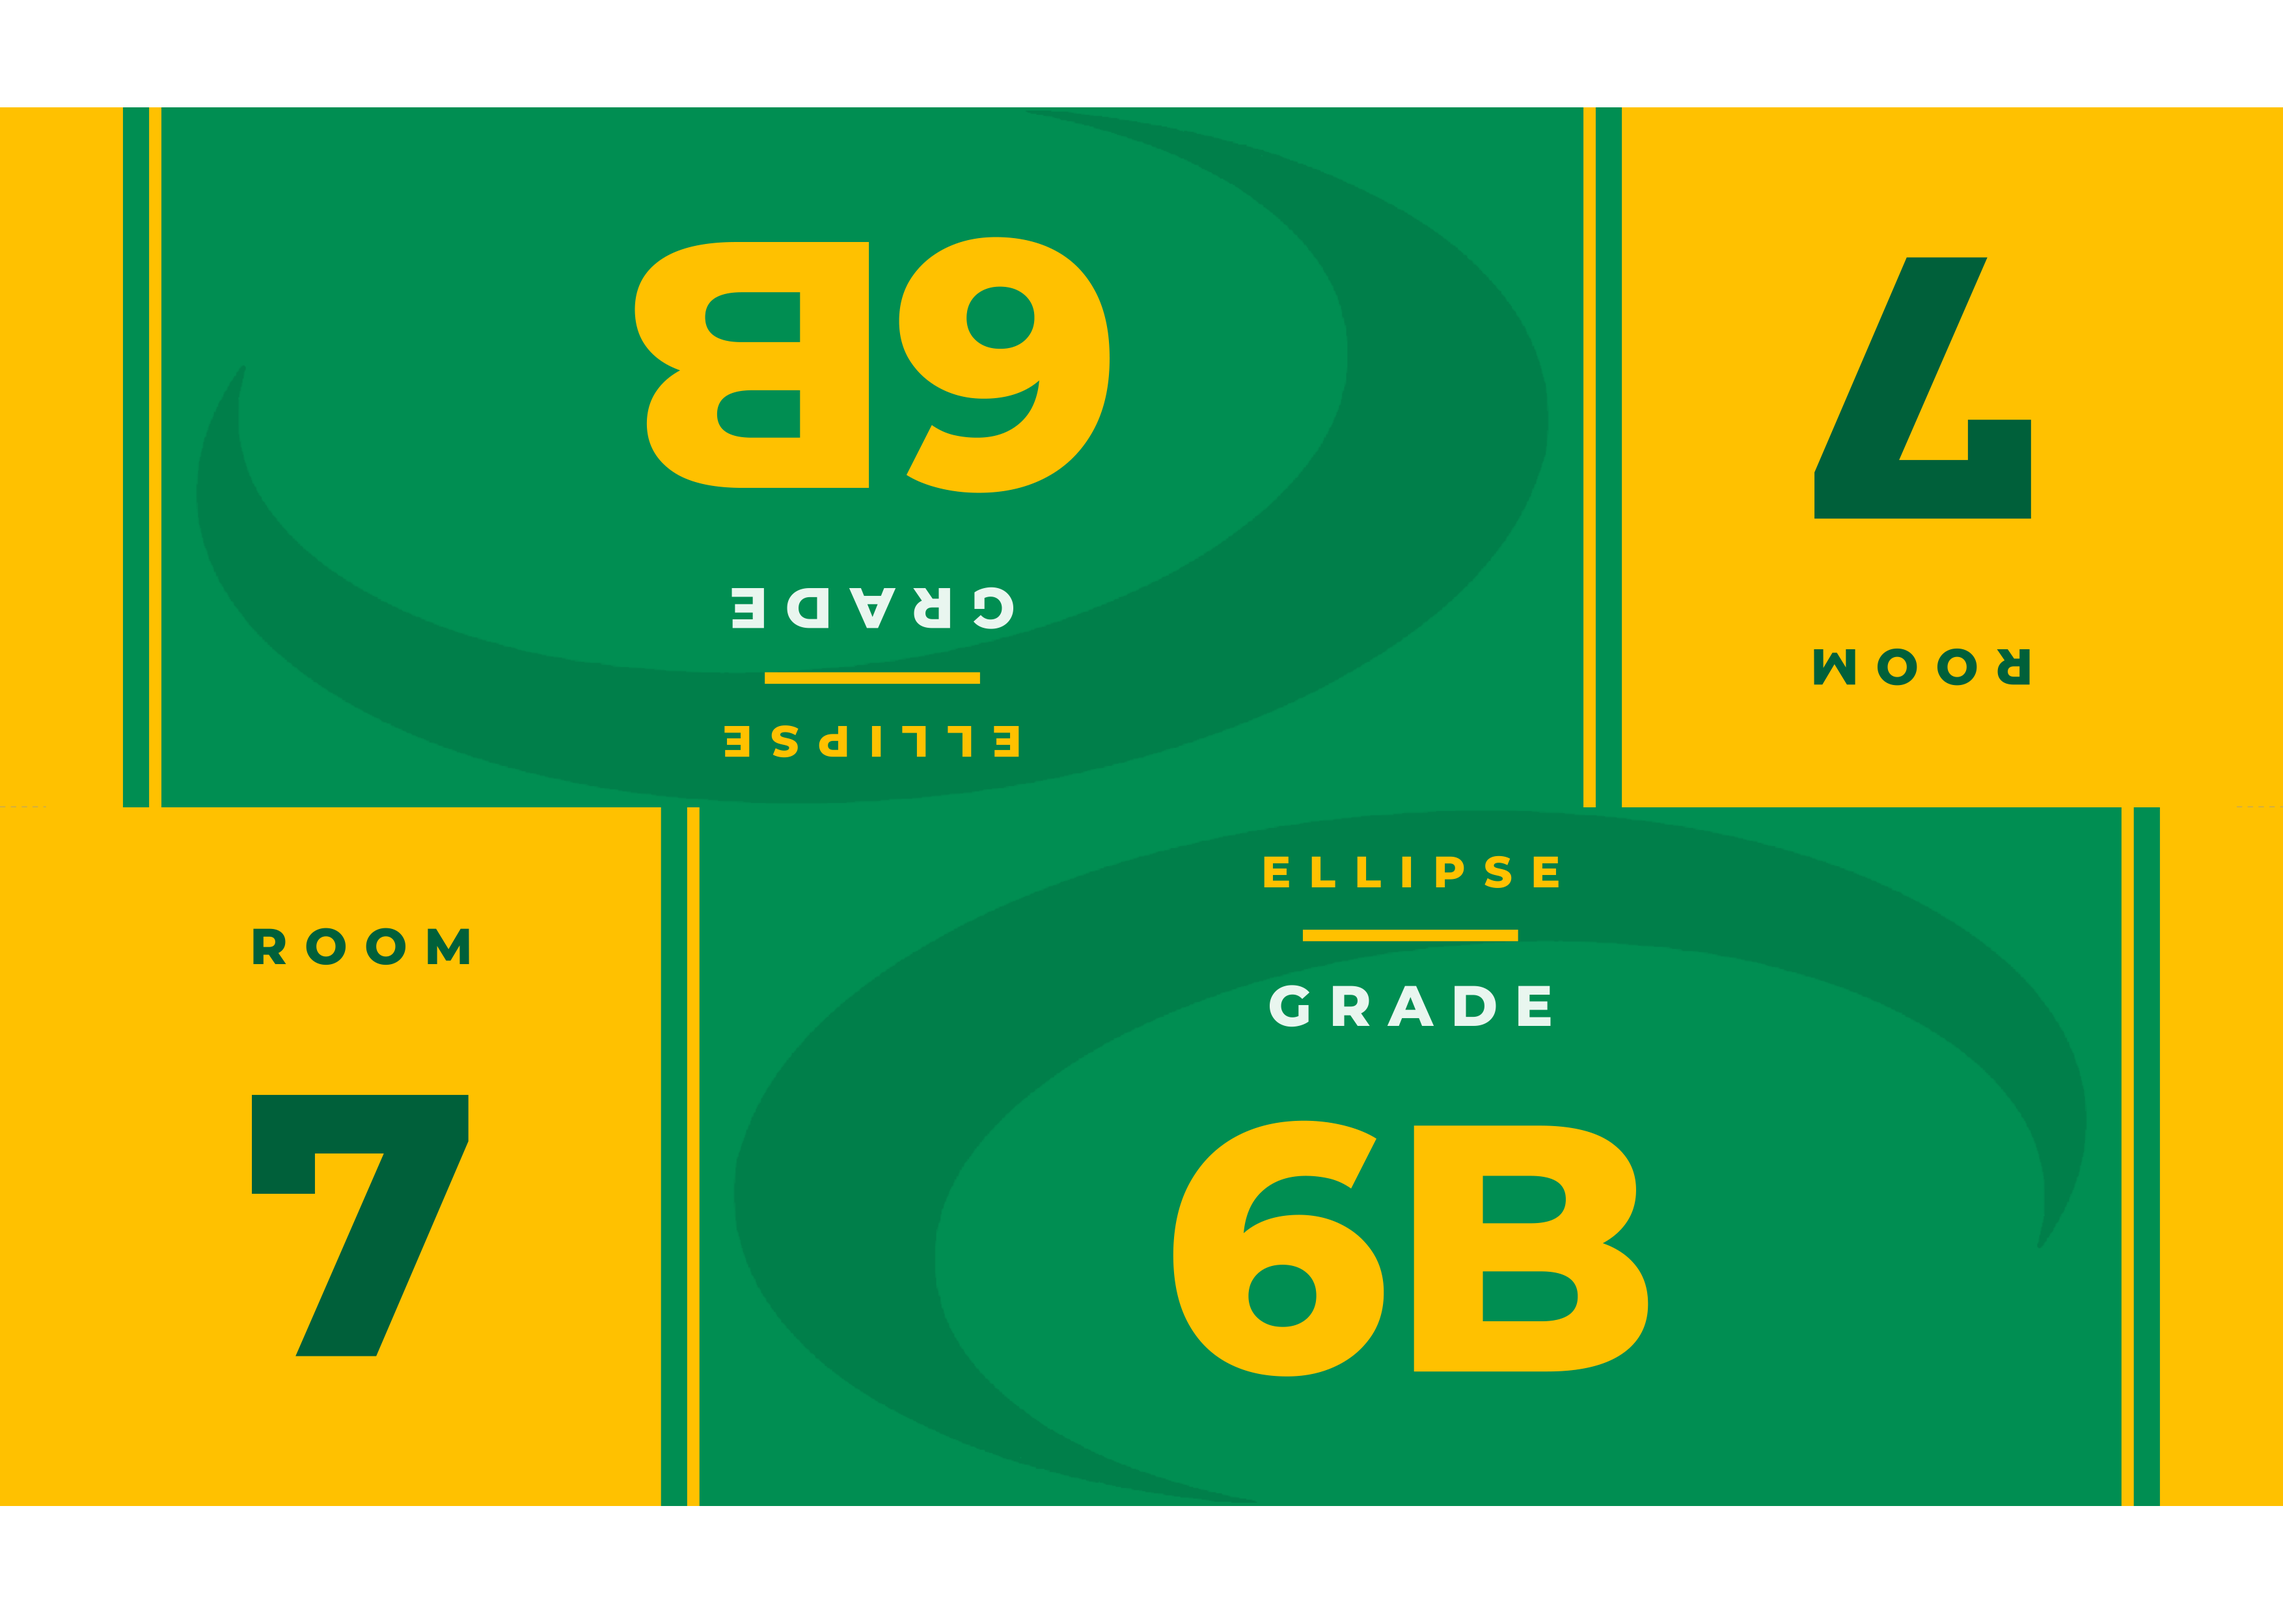
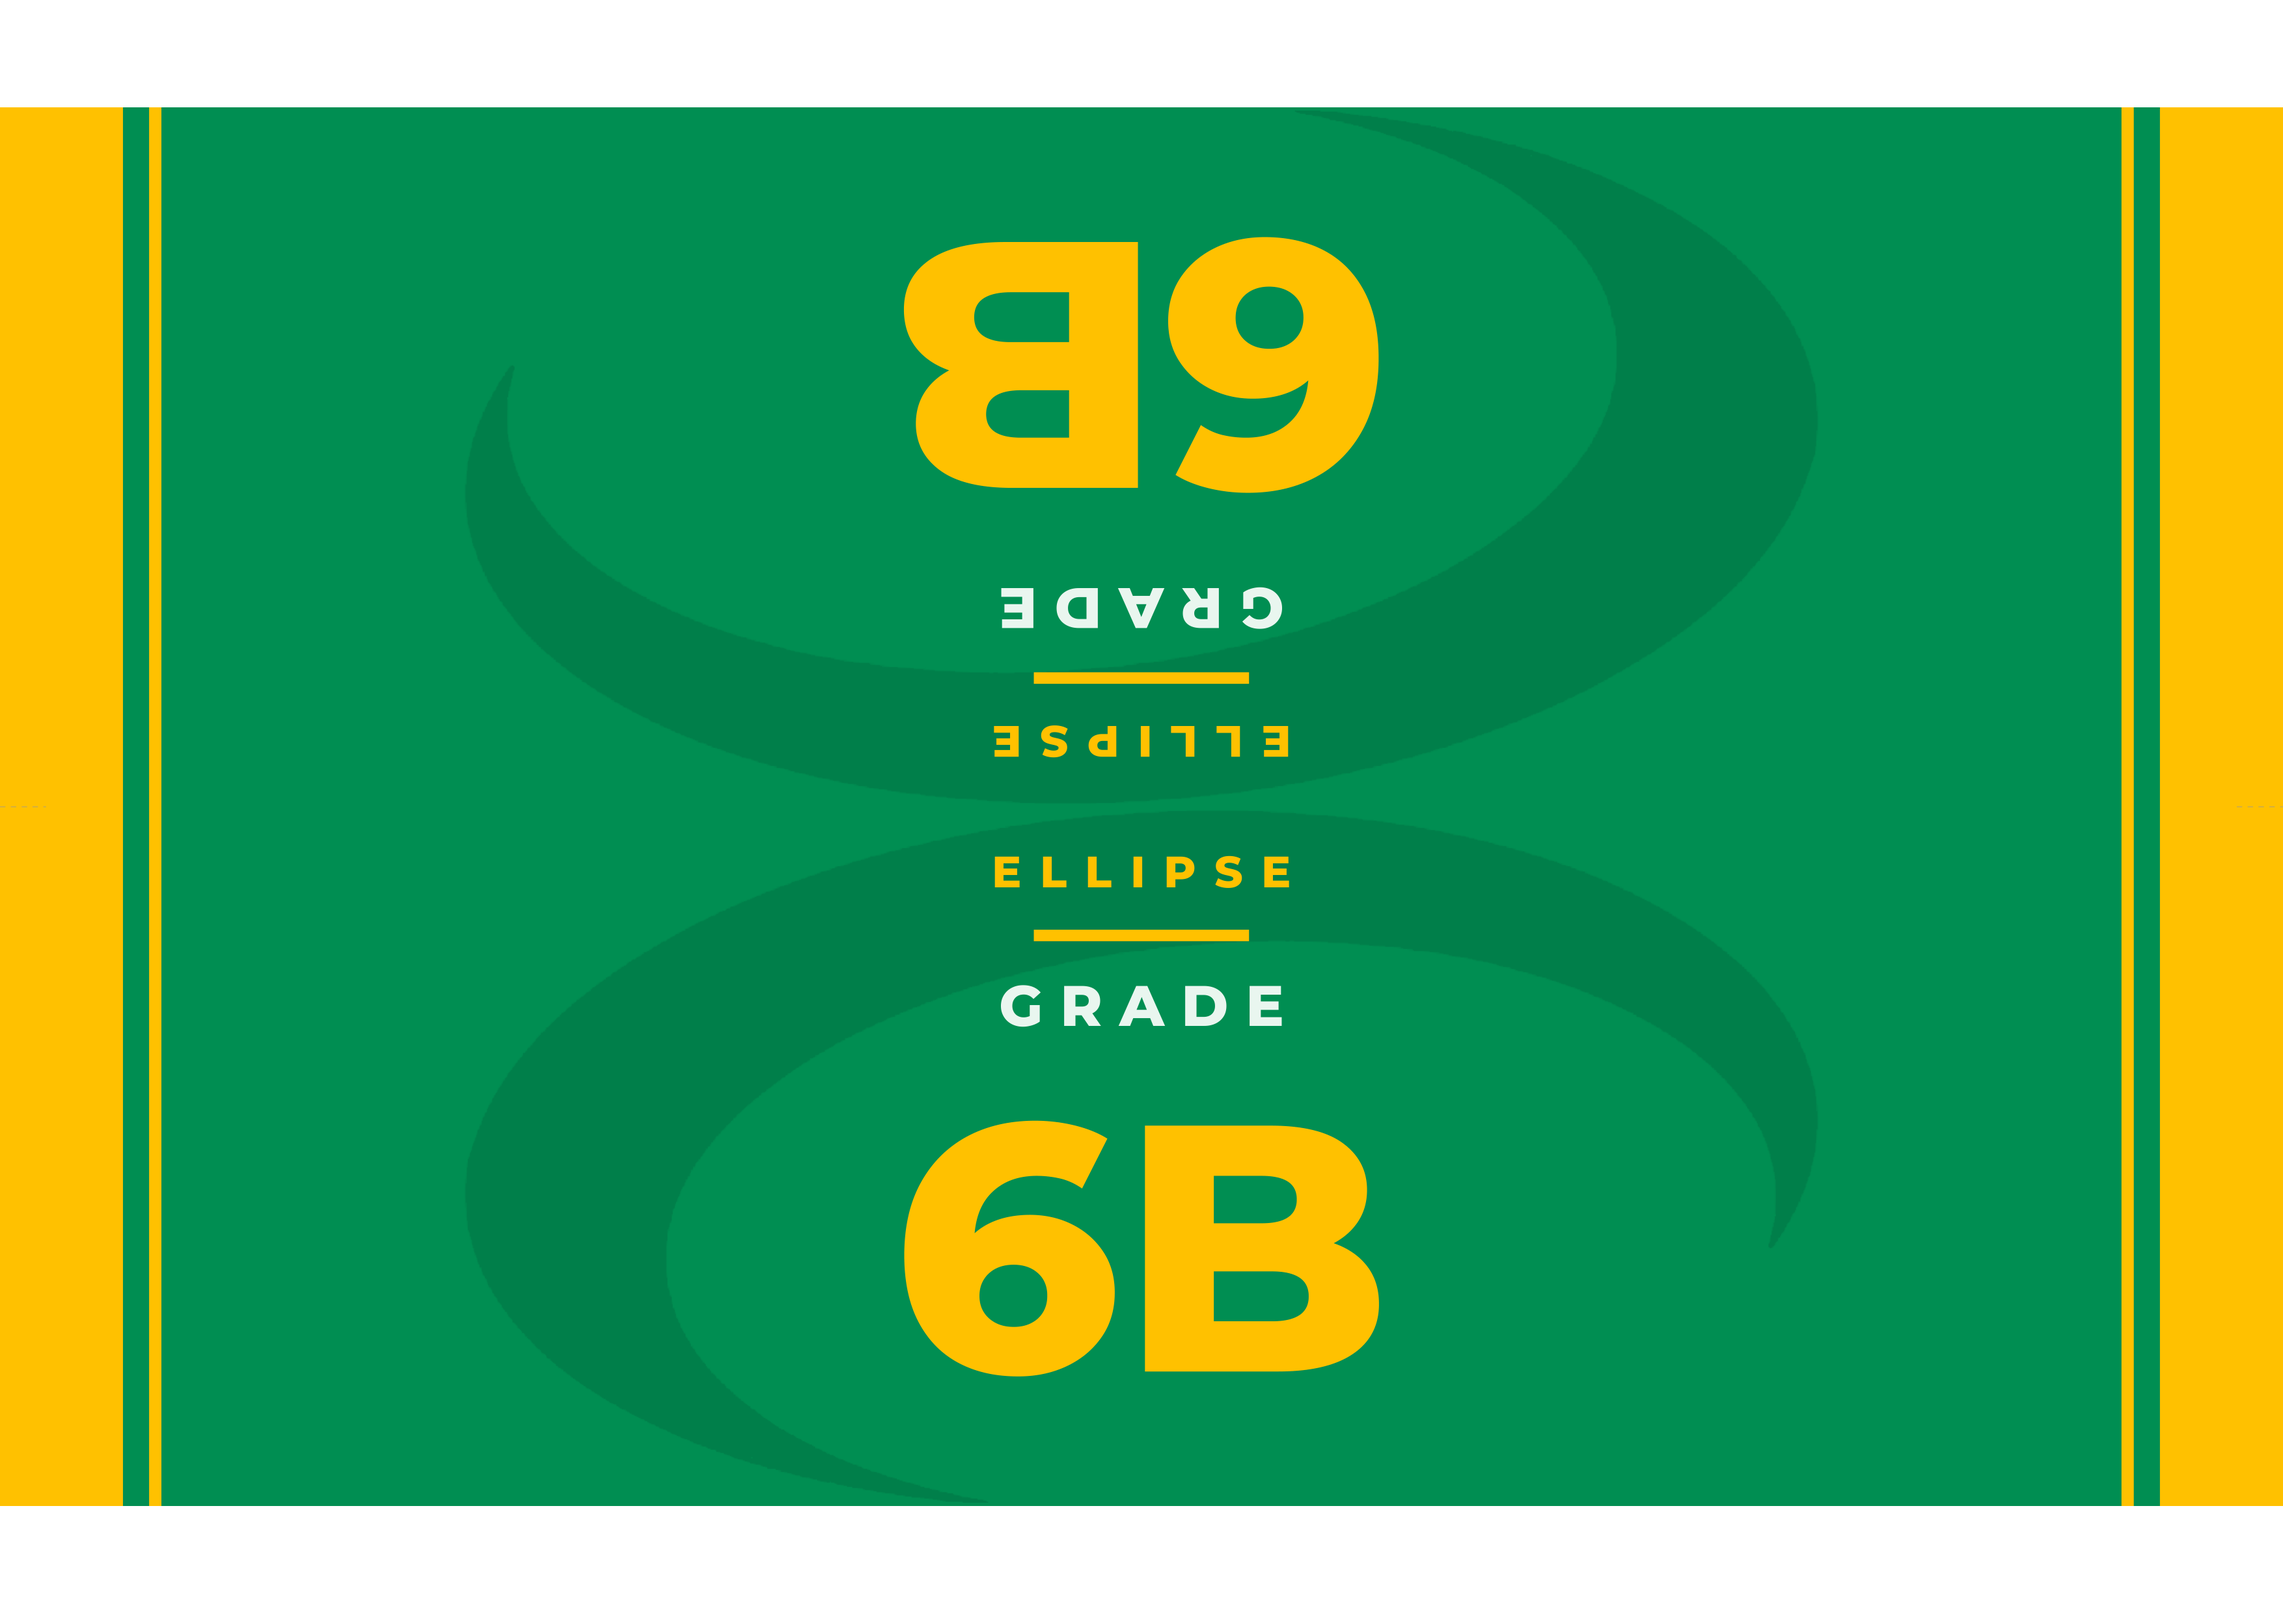
Tent cards: drop the room number, grade only on both halves
The tents now use a numberless tag variant - matching yellow bookends
on both ends and the grade lockup centred on the whole width.

Claude-Session: https://claude.ai/code/session_011fTd1wZGeiZ1sJsULCByno

diff --git a/room-tags/build_tags.py b/room-tags/build_tags.py
@@ -173,8 +173,17 @@ def fit_title(text, max_w, band):
 
 
 # ------------------------------------------------------------- the tag -----
-def draw_tag(c, item, bleed=True):
-    """Draw one tag with its trim-box origin at the current (0, 0)."""
+def draw_tag(c, item, bleed=True, numberless=False):
+    """Draw one tag with its trim-box origin at the current (0, 0).
+
+    numberless=True drops the room-number panel: matching 16 mm yellow
+    bookends on both ends and the grade lockup centred on the whole tag
+    (used for the folding table-tents).
+    """
+    left_w = RIGHT_YW if numberless else YELLOW_W
+    green_l = left_w + ACCENT_GAP + ACCENT_W
+    cx = (green_l + GREEN_R) / 2.0
+    max_w = GREEN_R - green_l - 22.0
     c.saveState()
     over = BLEED if bleed else 0.0
     p = c.beginPath()
@@ -190,24 +199,26 @@ def draw_tag(c, item, bleed=True):
     wm = SWOOSH_WATERMARK
     wm_w = 176.0
     wm_h = wm_w * wm.size[1] / wm.size[0]
-    c.drawImage(ImageReader(wm), (TEXT_CX - wm_w / 2) * MM, (TRIM_H / 2 - wm_h / 2) * MM,
+    c.drawImage(ImageReader(wm), (cx - wm_w / 2) * MM, (TRIM_H / 2 - wm_h / 2) * MM,
                 wm_w * MM, wm_h * MM, mask="auto")
 
     # straight yellow fields: number panel left, bookend right (holes sit in them)
     c.setFillColor(YELLOW)
-    c.rect(-BLEED * MM, -BLEED * MM, (YELLOW_W + BLEED) * MM, (TRIM_H + 2 * BLEED) * MM,
+    c.rect(-BLEED * MM, -BLEED * MM, (left_w + BLEED) * MM, (TRIM_H + 2 * BLEED) * MM,
            stroke=0, fill=1)
     c.rect((TRIM_W - RIGHT_YW) * MM, -BLEED * MM, (RIGHT_YW + BLEED) * MM,
            (TRIM_H + 2 * BLEED) * MM, stroke=0, fill=1)
     # accent lines echoing the two splits
-    c.rect((YELLOW_W + ACCENT_GAP) * MM, -BLEED * MM, ACCENT_W * MM,
+    c.rect((left_w + ACCENT_GAP) * MM, -BLEED * MM, ACCENT_W * MM,
            (TRIM_H + 2 * BLEED) * MM, stroke=0, fill=1)
     c.rect((TRIM_W - RIGHT_YW - ACCENT_GAP - ACCENT_W) * MM, -BLEED * MM, ACCENT_W * MM,
            (TRIM_H + 2 * BLEED) * MM, stroke=0, fill=1)
 
     # ---- yellow panel: room number ("WC" for the restrooms), or the logo
-    num = item["room"]
-    if not num and "RESTROOM" in item["title"].upper():
+    num = None if numberless else item["room"]
+    if numberless:
+        num, eyebrow = None, None
+    elif not num and "RESTROOM" in item["title"].upper():
         num = "WC"
         eyebrow = None
     else:
@@ -219,7 +230,7 @@ def draw_tag(c, item, bleed=True):
         cap = min(NUM_MAX_W / text_width(num, FONT_HEAVY, 1.0), NUM_MAX_CAP)
         base = (NUM_BAND[0] + NUM_BAND[1]) / 2.0 - cap / 2.0
         draw_text(c, num, FONT_HEAVY, cap, NUM_CX, base, GREEN_DEEP, align="center")
-    else:
+    elif not numberless:
         mark = LOGO_MARK
         mw = 48.0
         mh = mw * mark.size[1] / mark.size[0]
@@ -228,19 +239,19 @@ def draw_tag(c, item, bleed=True):
 
     # ---- green panel: centred lockup
     c.setFillColor(YELLOW)
-    c.rect((TEXT_CX - RULE_W / 2) * MM, RULE_Y * MM, RULE_W * MM, RULE_H * MM,
+    c.rect((cx - RULE_W / 2) * MM, RULE_Y * MM, RULE_W * MM, RULE_H * MM,
            stroke=0, fill=1)
-    draw_text(c, item["eyebrow"], FONT_HEAVY, EYEBROW_CAP, TEXT_CX, EYEBROW_Y, CREAM,
+    draw_text(c, item["eyebrow"], FONT_HEAVY, EYEBROW_CAP, cx, EYEBROW_Y, CREAM,
               track=EYEBROW_TRACK, align="center")
 
-    cap, lines = fit_title(item["title"], TEXT_MAX_W, TITLE_BAND)
+    cap, lines = fit_title(item["title"], max_w, TITLE_BAND)
     block_h = cap * (1.0 + (len(lines) - 1) * TITLE_LEADING)
     top_base = (TITLE_BAND[0] + TITLE_BAND[1]) / 2.0 + block_h / 2.0 - cap
     for i, line in enumerate(lines):
-        draw_text(c, line, FONT_HEAVY, cap, TEXT_CX, top_base - i * cap * TITLE_LEADING,
+        draw_text(c, line, FONT_HEAVY, cap, cx, top_base - i * cap * TITLE_LEADING,
                   YELLOW, align="center")
 
-    draw_text(c, "ELLIPSE", FONT_HEAVY, WORDMARK_CAP, TEXT_CX, WORDMARK_Y, YELLOW,
+    draw_text(c, "ELLIPSE", FONT_HEAVY, WORDMARK_CAP, cx, WORDMARK_Y, YELLOW,
               track=WORDMARK_TRACK, align="center", alpha=0.75)
 
     c.restoreState()
@@ -374,13 +385,13 @@ def build_tent_pdf(items, path, title):
         # bottom half, upright, top edge on the fold
         c.saveState()
         c.translate(0, (fold - TRIM_H) * MM)
-        draw_tag(c, it, bleed=False)
+        draw_tag(c, it, bleed=False, numberless=True)
         c.restoreState()
         # top half, rotated 180 degrees, top edge on the fold
         c.saveState()
         c.translate(TRIM_W * MM, (fold + TRIM_H) * MM)
         c.rotate(180)
-        draw_tag(c, it, bleed=False)
+        draw_tag(c, it, bleed=False, numberless=True)
         c.restoreState()
         # fold ticks at the page edges only, so the faces stay clean
         c.saveState()
